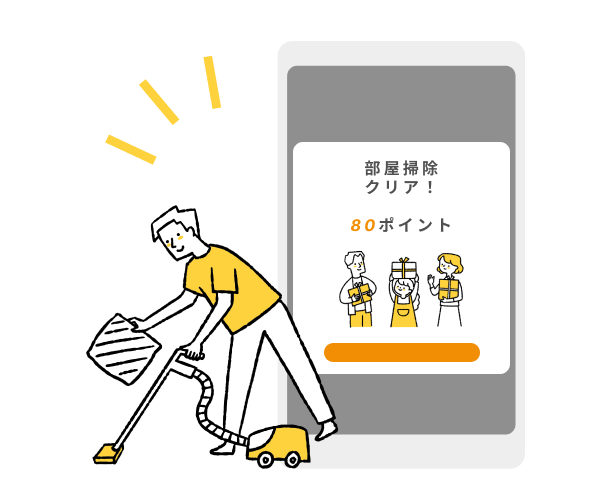
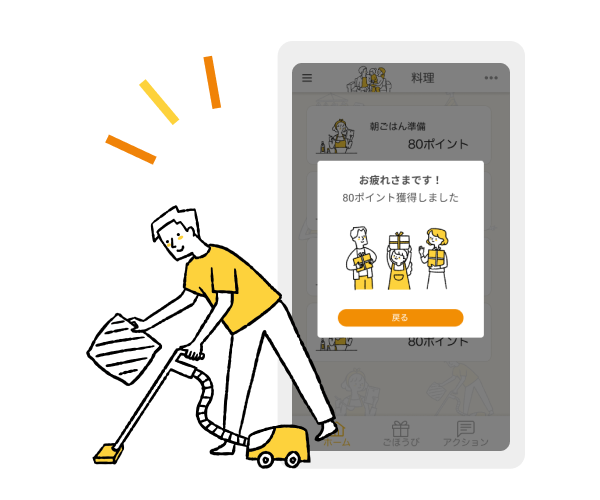
[fix]導入画像の変更

diff --git a/lib/ui/view/top_view.dart b/lib/ui/view/top_view.dart
@@ -51,6 +51,11 @@ class _CarouselWithIndicatorState extends State<TopView> {
                   subtitle: 'たまったポイントで\n家族にねぎらってもらおう！',
                   imageUrl: 'assets/images/introduction_3.png',
                 ),
+                _CarouselCard(
+                  title: '家事履歴',
+                  subtitle: 'これまでの家事を\n一覧でかんたんチェック！',
+                  imageUrl: 'assets/images/introduction_4.png',
+                ),
               ],
               carouselController: _controller,
               options: CarouselOptions(
